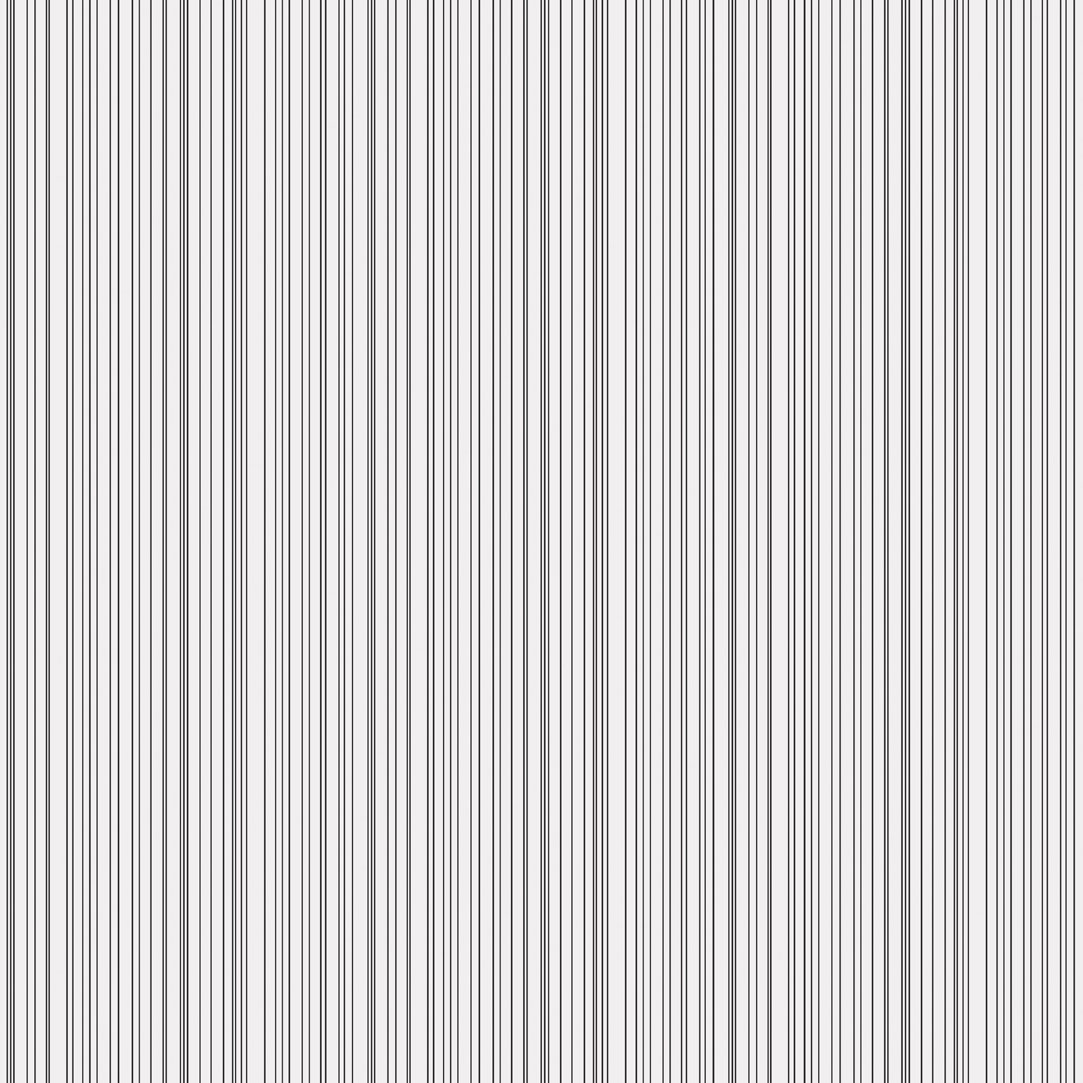
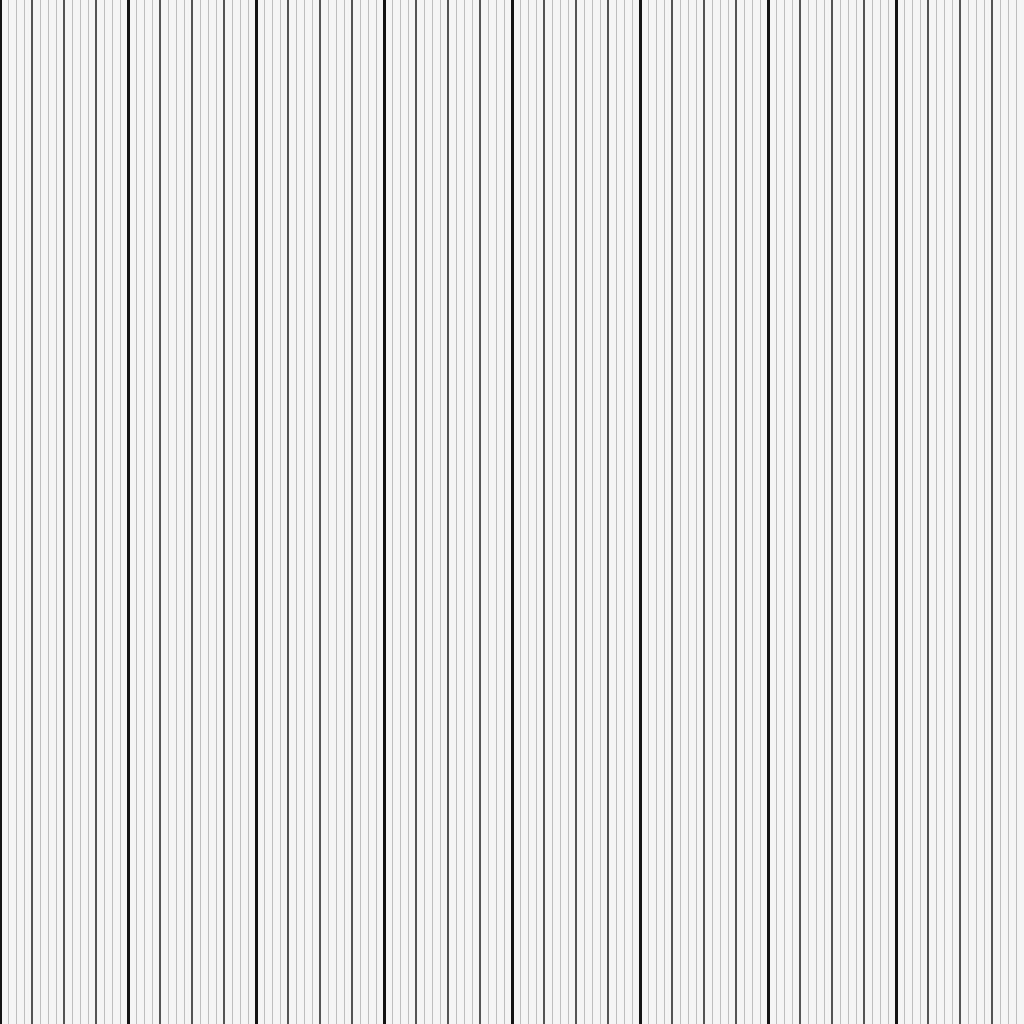
Add files via upload

diff --git a/scene_qc_validator/operators/checker.py b/scene_qc_validator/operators/checker.py
@@ -67,6 +67,10 @@ def _load_checker_image(checker_type):
         image.name = info["image"]
     image.filepath = path
     image.source = 'FILE'
+    try:
+        image.reload()
+    except RuntimeError:
+        pass
     return image
 
 
@@ -267,14 +271,12 @@ def _restore_materials(obj, backup):
     _remove_checker_uv(obj)
     _restore_active_uv(obj, backup)
     materials = backup["materials"]
-    while len(obj.material_slots) < len(materials):
-        obj.data.materials.append(None)
-    while len(obj.material_slots) > len(materials):
-        obj.data.materials.pop(index=len(obj.material_slots) - 1)
-    for index, name in enumerate(materials):
-        obj.material_slots[index].material = bpy.data.materials.get(name) if name else None
+    restored_materials = [bpy.data.materials.get(name) if name else None for name in materials]
+    obj.data.materials.clear()
+    for material in restored_materials:
+        obj.data.materials.append(material)
     material_indices = backup.get("material_indices")
-    if isinstance(material_indices, list):
+    if restored_materials and isinstance(material_indices, list):
         for poly, material_index in zip(obj.data.polygons, material_indices):
             poly.material_index = min(max(int(material_index), 0), max(len(materials) - 1, 0))
     if BACKUP_PROP in obj:

diff --git a/scene_qc_validator/ui/main_panel.py b/scene_qc_validator/ui/main_panel.py
@@ -1,5 +1,7 @@
 from bpy.types import Panel
 
+from .helpers import addon_version
+
 
 class SQC_PT_main(Panel):
     """Top-level panel: always-visible essentials - status, Validate, Export."""
@@ -8,6 +10,12 @@ class SQC_PT_main(Panel):
     bl_space_type = 'VIEW_3D'
     bl_region_type = 'UI'
     bl_category = "QC Validator"
+
+    def draw_header_preset(self, context):
+        version = self.layout.row(align=True)
+        version.alignment = 'RIGHT'
+        version.enabled = False
+        version.label(text=f"ver {addon_version()}")
 
     def draw(self, context):
         layout = self.layout

diff --git a/CHANGELOG.md b/CHANGELOG.md
@@ -1,5 +1,11 @@
 # Changelog
 
+## 1.1.1
+
+- Fixed repeated UV checker restore on objects that originally had no materials.
+- Rebuilt the line checker texture as a 1024x1024 asset.
+- Added the add-on version label to the main panel header.
+
 ## 1.1.0
 
 - Packaged as a Blender Extension.